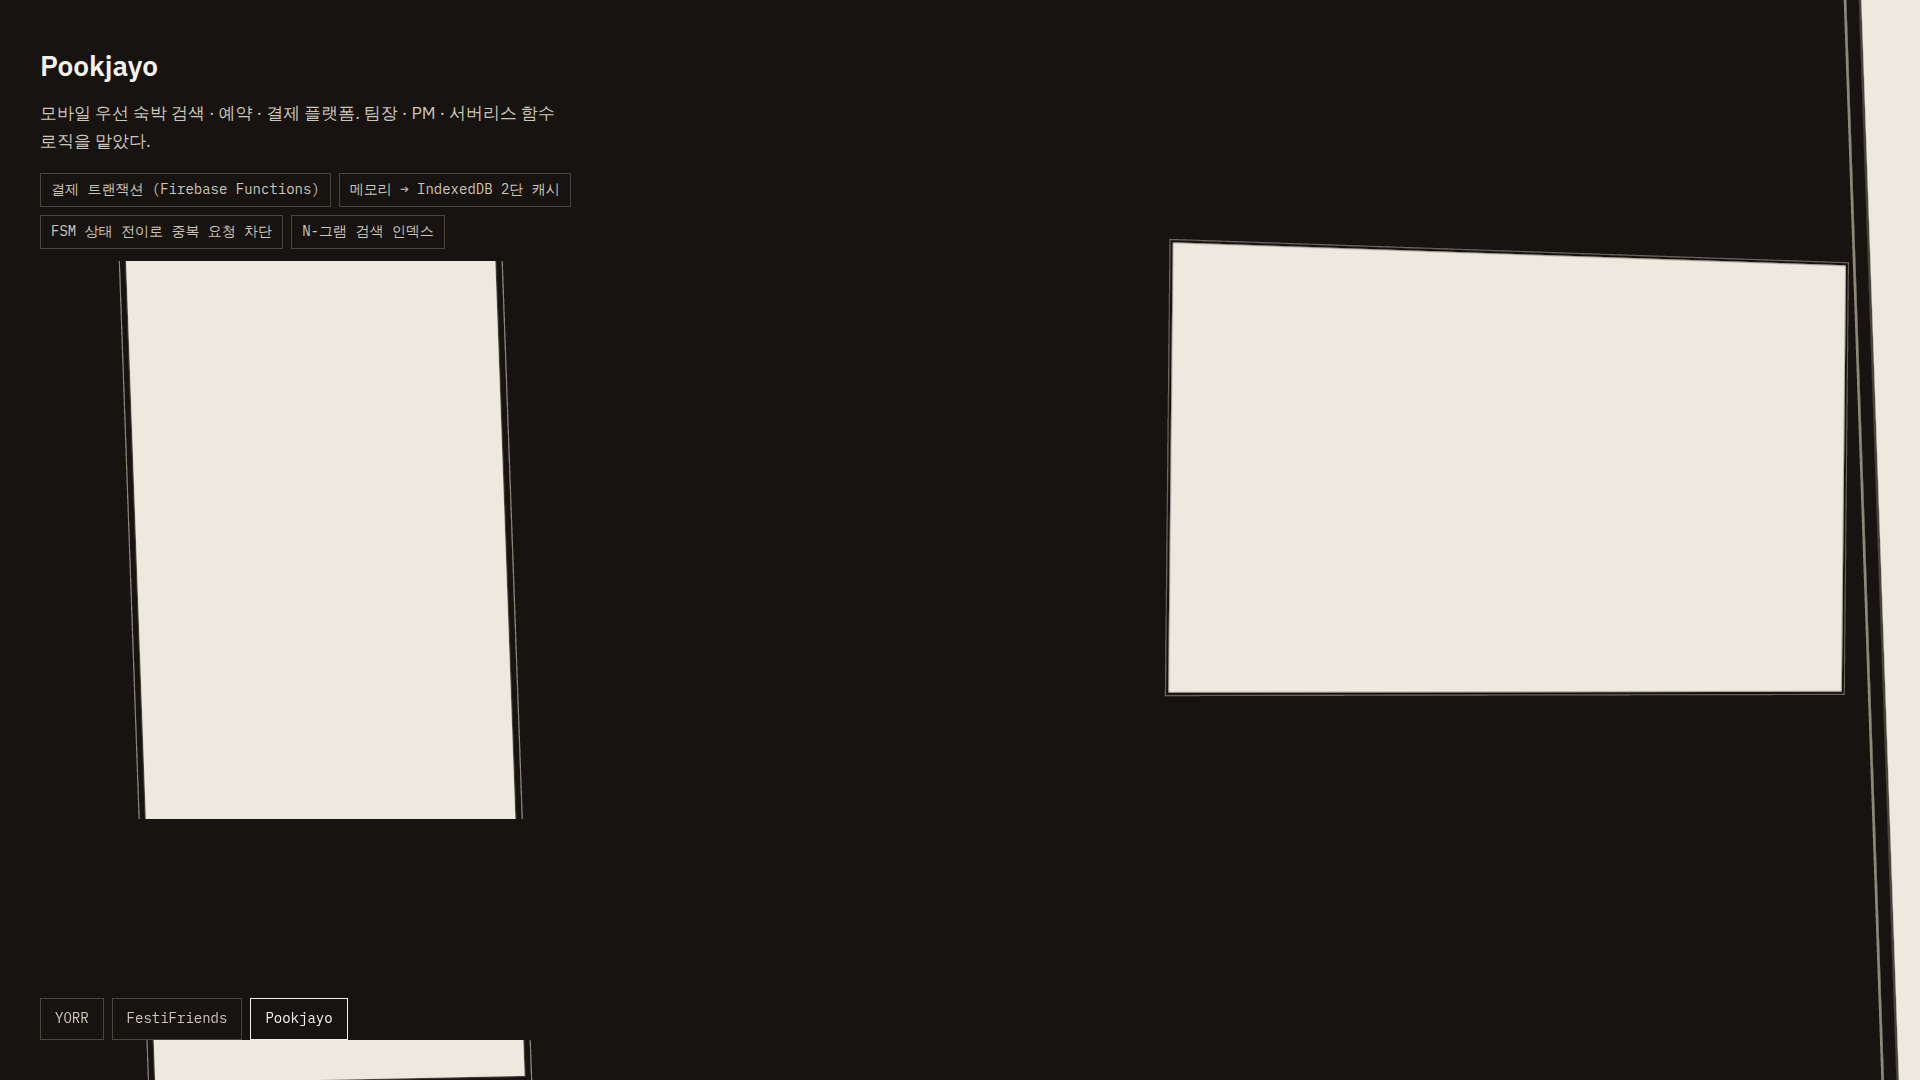
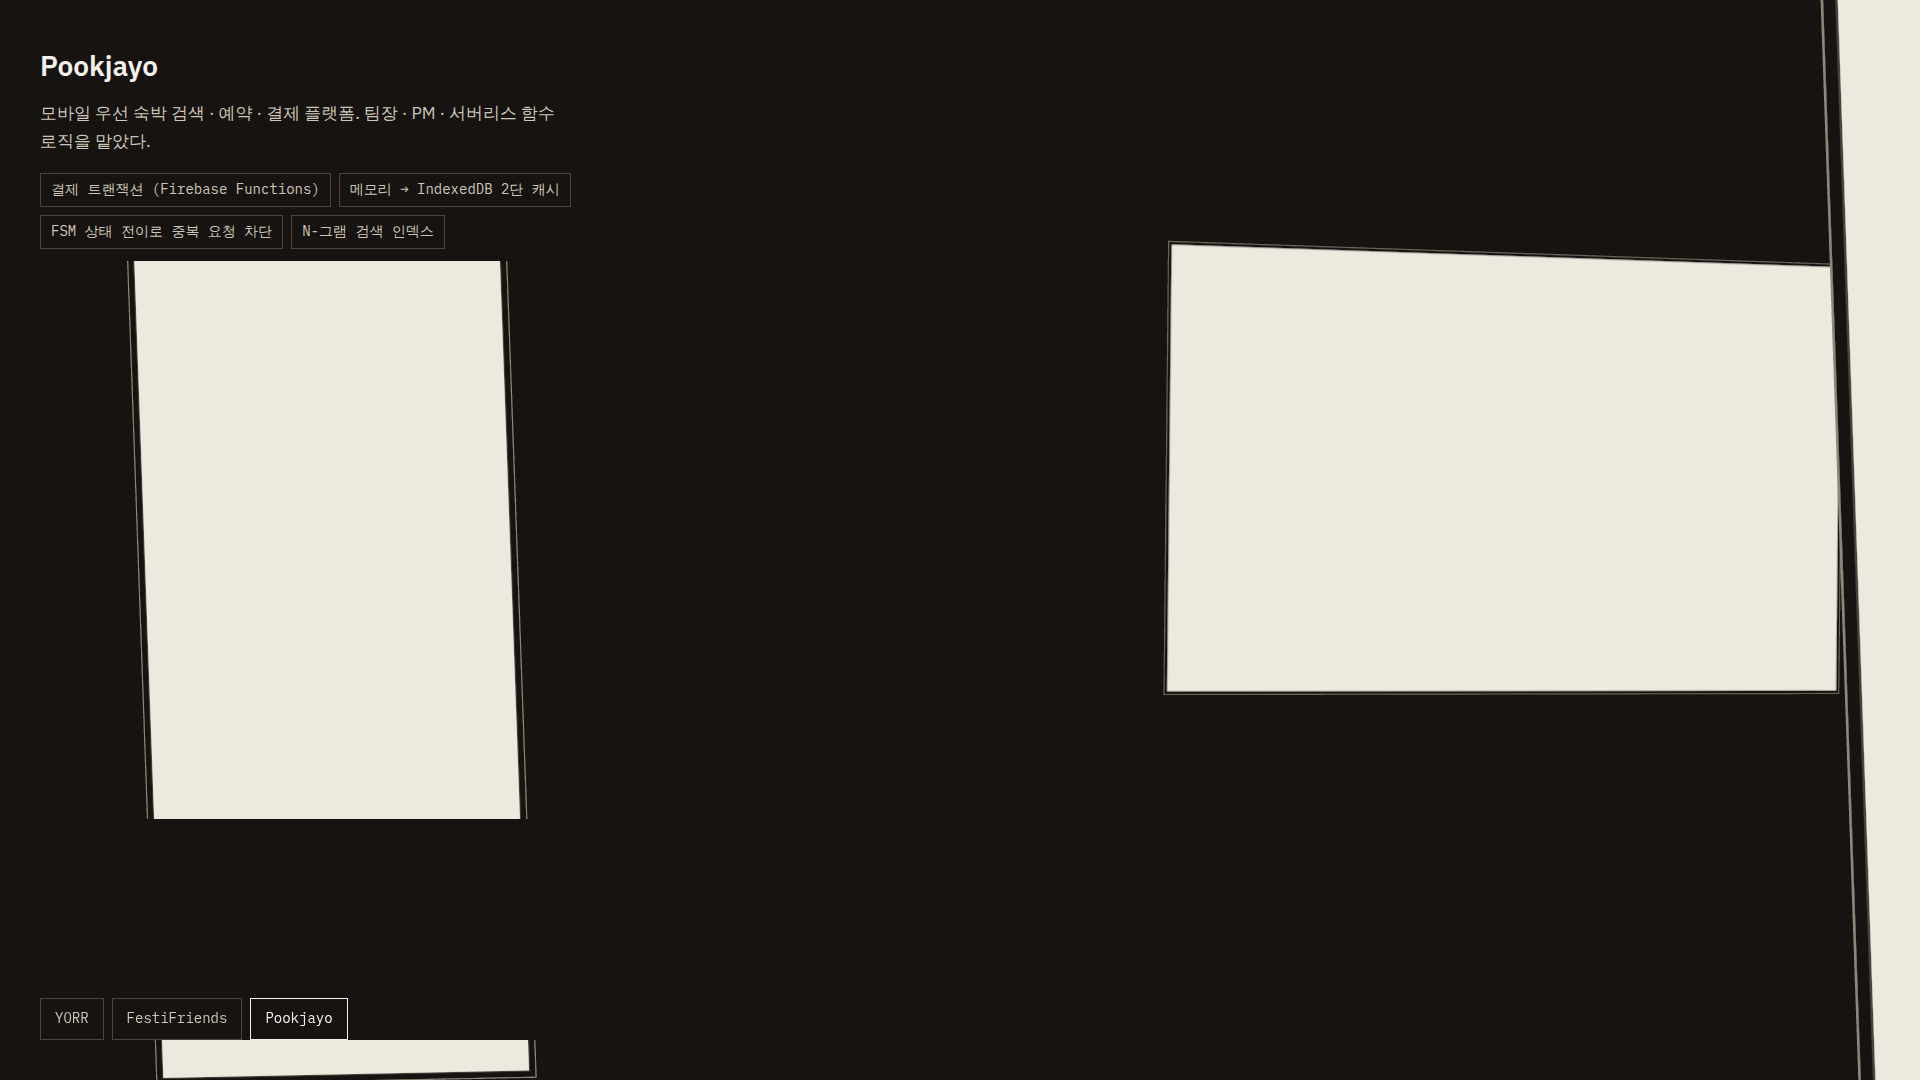
fix(corridor): keep planes in frame from the first screen to the last
At 90% scroll the corridor showed two frames and a lot of ground. The
cause was the camera's travel, not the placement: it ran the full depth
of the plane field, so near the end everything was behind it. Measuring
that turned up the same fault at the other end — the first 5% had two
planes too, which nobody had noticed by eye.

The camera now starts at z 1.6 instead of 3.2 and stops at the last
project's target rather than at the end of the field. The stop point is
not arbitrary: cutting a fixed tail was tried first and made scroll
progress 100% land on the second project, so the third could not be
reached by scrolling at all. Ending on the last project's own target
keeps planes ahead and keeps that project reachable, and both properties
are now tests.

corridorPlanesInView() makes "it thins out toward the end" a number, since
it is otherwise only visible to someone who scrolls and looks. Its window
counts planes slightly behind the camera as well as ahead, which is not a
lowered bar: with a forward-only window the count said 2 where the
screenshot plainly showed 5, because the channel invariant holds every
plane off the centre line and one just passed is still at the frame edge.
The measurement was wrong, so it was corrected to match the render.

Remaining and not fixed: the last stretch is still thinner than
mid-corridor. It clears the floor but it is not as good. The honest fix
is more shots per project, which is what the real screenshots will
[…]

diff --git a/src/components/showcase/g1/layout.ts b/src/components/showcase/g1/layout.ts
@@ -200,8 +200,44 @@ export function projectToScreen(item: Item, camera: Camera): ScreenRect | null {
 
 export const CHANNEL_HALF = 0.75;
 export const DEPTH_PER_PROJECT = 6;
-export const CORRIDOR_CAMERA_START_Z = 3.2;
+/*
+  카메라 출발 z. 3.2 에서 1.6 으로 당겼다 — 3.2 에서는 출발 직후 앞에 평면이
+  2장뿐이어서 복도가 성기게 시작했다 (`corridorPlanesAhead` 로 실측).
+  꼬리(CORRIDOR_TAIL)가 끝을 채우고 이 값이 시작을 채운다.
+*/
+export const CORRIDOR_CAMERA_START_Z = 1.6;
 export const CORRIDOR_FOV = 62;
+
+/**
+ * 카메라가 평면 밭보다 먼저 멈추는 거리.
+ *
+ * 실측 결함 (`review/tone/scroll-t1-1920-90.png`): 스크롤 90% 에서 화면에 평면이
+ * 2장만 남고 나머지가 전부 지면이다. 죽은 프레임은 아니지만 55% 대비 눈에 띄게
+ * 성기다 — 끝으로 갈수록 얇아진다.
+ *
+ * 원인은 배치가 아니라 **카메라 행정**이다. 카메라가 총 깊이만큼 끝까지 가면
+ * 마지막 구간에서는 앞에 남은 평면이 마지막 프로젝트의 뒤쪽 몇 장뿐이고, 이미
+ * 지나친 평면은 뒤에 있으므로 화면에 없다. 평면을 더 늘리는 것이 아니라 카메라를
+ * 한 밴드 일찍 세워서 항상 앞에 밭이 남아 있게 한다.
+ */
+export const CORRIDOR_TAIL = DEPTH_PER_PROJECT * 0.75;
+
+/**
+ * 카메라가 실제로 지나는 거리.
+ *
+ * 꼬리를 그냥 잘라내면 **마지막 프로젝트에 스크롤로 도달하지 못한다** — 실제로
+ * 그렇게 만들었다가 진행률 100% 가 세 번째가 아니라 두 번째 프로젝트에 머물렀다.
+ * 그래서 종점은 임의의 값이 아니라 **마지막 프로젝트의 목표 z** 다. 밭 끝보다
+ * 앞에서 멈추므로 앞에 평면이 남고, 동시에 마지막 프로젝트가 화면 중앙에 온다.
+ */
+export function corridorTravel(
+  totalDepth: number,
+  projects: readonly ShowcaseProject[] = PROJECTS,
+): number {
+  const lastTargetZ = corridorProjectTargetZ(projects.length - 1);
+  const travel = CORRIDOR_CAMERA_START_Z - lastTargetZ;
+  return Math.min(totalDepth, Math.max(DEPTH_PER_PROJECT, travel));
+}
 
 export interface CorridorItem extends Item {
   readonly projectIndex: number;
@@ -264,7 +300,7 @@ export function corridorCameraZ(
   totalDepth: number,
 ): number {
   const p = Math.min(1, Math.max(0, progress));
-  return CORRIDOR_CAMERA_START_Z - p * totalDepth;
+  return CORRIDOR_CAMERA_START_Z - p * corridorTravel(totalDepth);
 }
 
 export function corridorIndexForZ(z: number, projectCount: number): number {
@@ -277,6 +313,30 @@ export function corridorProjectTargetZ(projectIndex: number): number {
 }
 
 export function corridorProgressForZ(z: number, totalDepth: number): number {
-  const p = (CORRIDOR_CAMERA_START_Z - z) / totalDepth;
+  const p = (CORRIDOR_CAMERA_START_Z - z) / corridorTravel(totalDepth);
   return Math.min(1, Math.max(0, p));
+}
+
+/**
+ * 진행률 `progress` 에서 화면에 잡히는 평면 수.
+ *
+ * 「끝으로 갈수록 성기다」는 눈으로만 보이는 결함이므로 수로 만들어 테스트한다.
+ *
+ * 창을 카메라 **앞쪽만**으로 잡았더니 스크린샷과 어긋났다 — 진행률 100% 에서
+ * 실제 화면에는 평면이 다섯 장 보이는데 계수는 2였다. 평면은 전부 중심선에서
+ * 옆으로 비켜나 있으므로(채널 불변식) 카메라를 막 지난 평면도 화면 가장자리에
+ * 남는다. 그래서 창을 카메라 **뒤쪽 `BEHIND` 까지** 넓힌다. 임계값을 낮추는 것이
+ * 아니라 계측을 화면에 맞추는 것이다.
+ */
+const VIEW_BEHIND = 2;
+
+export function corridorPlanesInView(
+  progress: number,
+  depth = DEPTH_PER_PROJECT,
+  projects: readonly ShowcaseProject[] = PROJECTS,
+): number {
+  const cameraZ = corridorCameraZ(progress, corridorTotalDepth(projects));
+  return corridorItems(projects).filter(
+    (item) => item.z < cameraZ + VIEW_BEHIND && item.z > cameraZ - depth,
+  ).length;
 }

diff --git a/src/components/showcase/g1/layout.test.ts b/src/components/showcase/g1/layout.test.ts
@@ -2,15 +2,18 @@ import { describe, expect, it } from "vitest";
 import {
   CHANNEL_HALF,
   CORRIDOR_CAMERA_START_Z,
-  corridorCameraZ,
-  corridorItems,
-  corridorTotalDepth,
   HERO_CAMERA_DESKTOP,
   HERO_CAMERA_MOBILE,
+  corridorCameraZ,
+  corridorIndexForZ,
+  corridorItems,
+  corridorPlanesInView,
+  corridorTotalDepth,
   heroItemsDesktop,
   heroItemsMobile,
   projectToScreen,
 } from "./layout";
+import { PROJECTS } from "../shots";
 
 /**
  * 기하 불변식 테스트. `/f1` 이 「카메라가 평면 안으로 들어간다」로 죽은 프레임을
@@ -42,6 +45,39 @@ describe("복도 배치 — 채널 불변식", () => {
     expect(a).toBeGreaterThan(b);
     expect(b).toBeGreaterThan(c);
     expect(a).toBe(CORRIDOR_CAMERA_START_Z);
+  });
+});
+
+describe("복도 밀도 — 끝까지 성기지 않는다", () => {
+  /*
+    실측 결함: /t1 스크롤 90% 에서 화면에 평면이 2장뿐이었다
+    (`review/tone/scroll-t1-1920-90.png`). 카메라가 평면 밭 끝까지 달려서
+    마지막 구간에 남는 평면이 없었던 것이다. 카메라 행정을 한 밴드 줄여 고쳤고,
+    그 수정이 되돌아가지 않도록 밀도를 수로 검사한다.
+  */
+  it("어느 진행률에서도 화면에 평면이 최소 3장 있다", () => {
+    const thin: string[] = [];
+    for (let step = 0; step <= 20; step += 1) {
+      const progress = step / 20;
+      const ahead = corridorPlanesInView(progress);
+      if (ahead < 3) thin.push(`${Math.round(progress * 100)}% → ${ahead}장`);
+    }
+    expect(thin).toEqual([]);
+  });
+
+  it("진행률 100% 는 마지막 프로젝트에 머문다", () => {
+    // 꼬리를 그냥 잘랐더니 끝에서 두 번째 프로젝트에 멈춰 있었다.
+    const total = corridorTotalDepth();
+    const endZ = corridorCameraZ(1, total);
+    expect(corridorIndexForZ(endZ, PROJECTS.length)).toBe(PROJECTS.length - 1);
+  });
+
+  it("카메라는 평면 밭보다 먼저 멈춘다", () => {
+    const total = corridorTotalDepth();
+    const endZ = corridorCameraZ(1, total);
+    const furthest = Math.min(...corridorItems().map((item) => item.z));
+    // 종점에서도 앞에 평면이 남아 있어야 한다 — 밭 끝에 도달하면 화면이 빈다.
+    expect(endZ - furthest).toBeGreaterThan(1);
   });
 });
 
